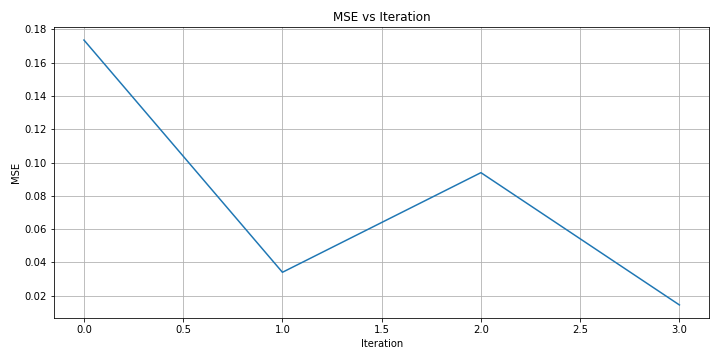
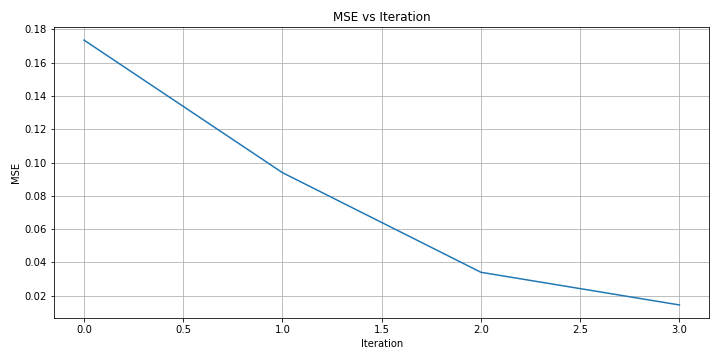
Img order fixed

diff --git a/vis.py b/vis.py
@@ -61,12 +61,12 @@ def plot_mse_error(current_images_path, final_image_path, results_path):
 
     mse_list = []
     img_final = Image.open(final_image_path)
-    for i in range(len(current_images_path)):
+    for x in current_images_path:
         
         
-        img1 = Image.open(current_images_path[len(current_images_path) - 1 - i])
+        img1 = Image.open(x)
         
-        print(current_images_path[len(current_images_path) - 1 - i])
+        print(x)
         
         mse = compare_mse(img_as_float(img1), img_as_float(img_final))
         
@@ -116,10 +116,13 @@ actuation_data = np.array([[21, -3, 1],
 images_path = os.path.join('images/', path)
 images = [os.path.join(images_path, file) for file in os.listdir(images_path) if file.endswith('.png')]
 
+images.sort() #good initial sort but doesnt sort numerically very well
+sorted(images)
 
-img_ini = images[-2]
-img_fin = images[0]
-img_tar = images[-1]
+
+img_ini = images[1]
+img_fin = images[-1]
+img_tar = images[0]
 
 
 num_iterations = actuation_data.shape[0]
@@ -132,6 +135,6 @@ plot_actuation(iterations, actuation_data, results_path)
 plot_superimposition(img_fin, img_tar, results_path)
 
 
-plot_mse_error(images[:-1], img_tar, results_path)
+plot_mse_error(images[1:], img_tar, results_path)
 
 
